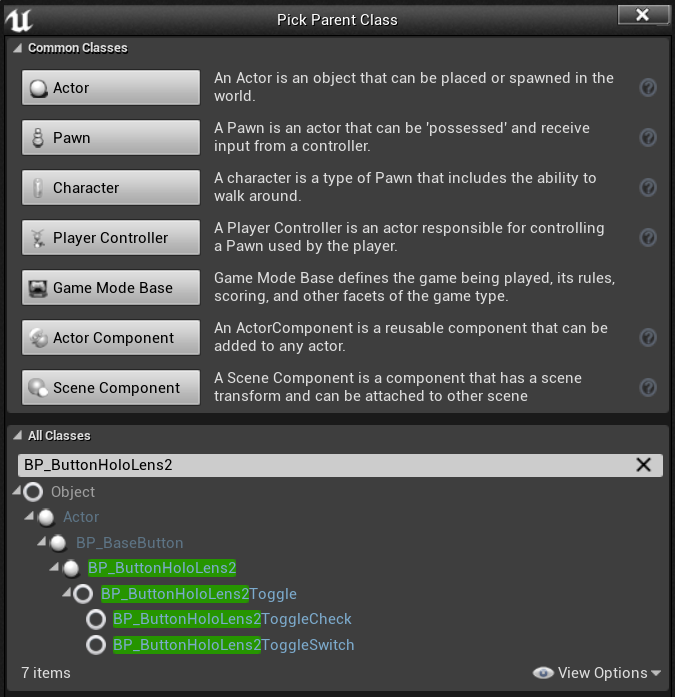
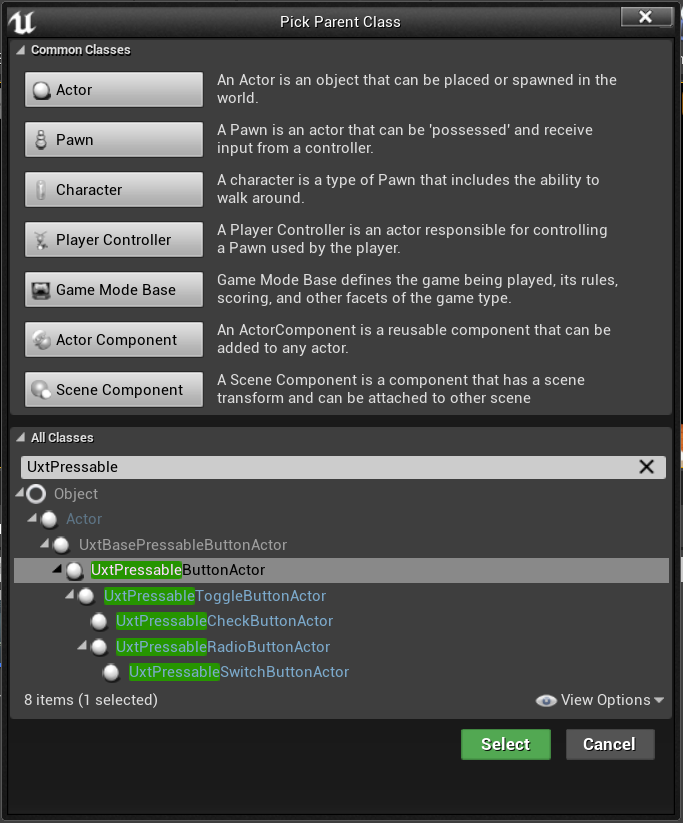
Update Unreal getting started tutorial for UXT 0.10

diff --git a/mixed-reality-docs/mr-dev-docs/develop/unreal/tutorials/unreal-uxt-ch4.md b/mixed-reality-docs/mr-dev-docs/develop/unreal/tutorials/unreal-uxt-ch4.md
@@ -1,9 +1,9 @@
 ---
 title: 4. Making your scene interactive
-description: Part 4 of 6 in a tutorial series to build a simple chess app using Unreal Engine 4 and the Mixed Reality Toolkit UX Tools plugin
+description: Part 4 of 6 in a tutorial series to build a simple chess app using Unreal Engine 4 and the Mixed Reality UX Tools plugin
 author: hferrone
 ms.author: v-hferrone
-ms.date: 08/18/2020
+ms.date: 11/18/2020
 ms.topic: article
 ms.localizationpriority: high
 keywords: Unreal, Unreal Engine 4, UE4, HoloLens, HoloLens 2, mixed reality, tutorial, getting started, mrtk, uxt, UX Tools, documentation, mixed reality headset, windows mixed reality headset, virtual reality headset
@@ -13,32 +13,33 @@ keywords: Unreal, Unreal Engine 4, UE4, HoloLens, HoloLens 2, mixed reality, tut
 
 ## Overview
 
-In the previous tutorial you added an ARSession, Pawn, and Game Mode to complete the mixed reality setup for the chess app. This section focuses on using the open source [Mixed Reality Toolkit UX Tools](https://github.com/microsoft/MixedReality-UXTools-Unreal) plugin, which provides tools to make the scene interactive. By the end of this section you'll be able to move the chess pieces with user input. 
+In the previous tutorial you added an ARSession, Pawn, and Game Mode to complete the mixed reality setup for the chess app. This section focuses on using the open source [Mixed Reality UX Tools](https://github.com/microsoft/MixedReality-UXTools-Unreal) plugin, which provides tools to make the scene interactive. By the end of this section you'll be able to move the chess pieces with user input. 
 
 ## Objectives
 
-* Downloading the Mixed Reality Toolkit UX Tools plugin 
+* Installing the Mixed Reality UX Tools plugin from the Unreal Engine Marketplace
 * Adding Hand Interaction Actors to your fingertips
 * Creating and adding Manipulators to objects in the scene
 * Using input simulation to validate the project
 
-## Downloading the MRTK UX Tools plugin
+## Downloading the Mixed Reality UX Tools plugin
 Before you start working with user input, you'll need to add the plugin to the project.
 
-1.	On the Mixed Reality UX Tools [releases page](https://github.com/microsoft/MixedReality-UXTools-Unreal/releases) on GitHub, navigate to the UX Tools for Unreal v0.9.0 release and download **UXTools.0.9.0.zip**. Unzip the file.
+1.	[Download](https://www.unrealengine.com/marketplace/en-US/product/mixed-reality-ux-tools) the Mixed Reality UX Tools plugin from the Unreal Engine Marketplace and install it to your engine via the Epic Launcher. Restart your editor.
 
-2.	Create a new folder called **Plugins** in the root folder of the project. Copy the unzipped UXTools plugin into this folder and restart the Unreal editor. 
+![Install to engine from the Unreal Engine Marketplace](images/unreal-uxt/4-marketplace.PNG)
 
-![Create a project plugins folder](images/unreal-uxt/4-plugins.PNG)
+2. Go to **Edit > Plugins** and ensure the Mixed Reality UX Tools plugin is enabled.
 
-3.	The UXTools plugin has a Content folder with subfolders for components including **Buttons**, **Input Simulation**, and **Pointers**, as well as a C++ Classes folder with additional code.  
+![Ensure Mixed Reality UX Tools is enabled](images/unreal-uxt/4-uxtenabled.PNG)
 
-> [!NOTE]
-> If you don’t see the **UXTools Content** section in the **Content Browser**, click **View Options > Show Plugin Content**. 
+3. To view the plugin's content, click on **View Options > Show Engine Content** in the bottom right corner of the **Content Browser**. Scroll down until you find **UXTools Content** and expand that directory. You'll see subfolders for components including Buttons, Input Simulation, and Pointers, as well as a **C++ Classes** folder with additional code.
 
-![Show plugin content](images/unreal-uxt/4-showplugincontent.PNG)
+![Ensure Mixed Reality UX Tools is enabled](images/unreal-uxt/4-showenginecontent.PNG)
+ 
+Additional plugin documentation can be found on the Mixed Reality UX Tools GitHub [repository](https://aka.ms/uxt-unreal). 
 
-With the plugin installed, you're ready to start using the tools it has to offer, starting with hand interaction actors.
+With the plugin installed, you're ready to start using the tools it has to offer, starting with hand interaction actors. 
 
 ## Spawning Hand Interaction Actors
 Hand interaction with UX elements is performed with Hand Interaction Actors, which create and drive the pointers and visuals for near and far interactions.
@@ -50,7 +51,7 @@ In our case, adding a Hand Interaction Actor to **MRPawn** will:
 - Provide articulated hand input events that can be manipulated through the Pawn.
 - Allow far interaction input events through hand rays extending from the palms of the virtual hands.
 
-In order to drive these concepts home, you're encouraged to read through the [documentation](https://github.com/microsoft/MixedReality-UXTools-Unreal/blob/public/0.9.x/Docs/HandInteraction.md) on hand interactions before continuing. 
+In order to drive these concepts home, you're encouraged to read through the [documentation](https://microsoft.github.io/MixedReality-UXTools-Unreal/Docs/HandInteraction.html) on hand interactions before continuing. 
 
 Once you're ready, open the **MRPawn** Blueprint and go to the **Event Graph**. 
 
@@ -74,11 +75,9 @@ Both Uxt Hand Interaction Actors need owners and initial transform locations. Th
 3. Last but not least, check the **Show Near Cursor on Grab Targets** box for both Hand Interaction Actors. This will cause a cursor to appear on the grab target as your index finger approaches it, which will make it easier to see where your finger is relative to the target.
     * **Compile**, **save**, and return to the Main window. 
 
-Make sure the connections match the following screenshot, but feel free to drag around nodes to make your Blueprint more readable
+Make sure the connections match the following screenshot, but feel free to drag around nodes to make your Blueprint more readable.
 
 ![Complete UXT Hand Interaction Actor setup](images/unreal-uxt/4-fingerptrs.PNG) 
-
-You can find more information about the Hand Interaction Actor provided in the MRTK UX Tools plugin in the [documentation](https://microsoft.github.io/MixedReality-UXTools-Unreal/version/public/0.9.x/Docs/HandInteraction.html).
 
 Now the virtual hands in the project have a way of selecting objects, but they still can't manipulate them. Your last task before testing the app is to add Manipulator components to the actors in the scene.
 
@@ -96,10 +95,10 @@ A Manipulator is a component that responds to articulated hand input and can be 
 
 3. Repeat the steps above for the **WhiteKing** Actor.
 
-You can find more information about the Manipulator Components provided in the MRTK UX Tools plugin in the [documentation](https://microsoft.github.io/MixedReality-UXTools-Unreal/version/public/0.9.x/Docs/Manipulator.html).
+You can find more information about the Manipulator Components provided in the Mixed Reality UX Tools plugin in the [documentation](https://microsoft.github.io/MixedReality-UXTools-Unreal/Docs/Manipulator.html).
 
 ## Testing the scene
-Good news everyone! You're ready to test out the app with its new virtual hands and user input. Press **Play** in the Main Window and you'll see two mesh hands provided by the MRTK UX Tools plugin with hand rays extending from each hand’s palm. You can control the hands and their interactions as follows:
+Good news everyone! You're ready to test out the app with its new virtual hand input. Press **Play** in the Main Window and you'll see two mesh hands provided by the Mixed Reality UX Tools plugin with hand rays extending from each hand’s palm. You can control the hands and their interactions as follows:
 - Hold down the **left Alt** key to control the **left hand** and the **left Shift** key to control the **right hand**. 
 - Move your mouse to move the hand and scroll with your **mouse wheel** to move the hand **forwards** or **backwards**. 
 - Click the left mouse button to **pinch**, click the middle mouse button to **poke**. 
@@ -111,7 +110,7 @@ Good news everyone! You're ready to test out the app with its new virtual hands 
 
 Try using the simulated hands to pick up, move, and set down the white chess king and manipulate the board! Experiment with both near and far interaction - notice that when your hands get close enough to grab the board and king directly, the hand ray disappears and is replaced with a finger cursor at the tip of the index finger. 
 
-You can find more information about the simulated hands feature provided by the MRTK UX Tools plugin in the [documentation](https://microsoft.github.io/MixedReality-UXTools-Unreal/version/public/0.9.x/Docs/InputSimulation.html).
+You can find more information about the simulated hands feature provided by the MRTK UX Tools plugin in the [documentation](https://microsoft.github.io/MixedReality-UXTools-Unreal/Docs/InputSimulation.html).
 
 Now that your virtual hands can interact with objects, you're ready to move on to the next tutorial and add user interfaces and events.
 

diff --git a/mixed-reality-docs/mr-dev-docs/develop/unreal/tutorials/unreal-uxt-ch5.md b/mixed-reality-docs/mr-dev-docs/develop/unreal/tutorials/unreal-uxt-ch5.md
@@ -1,9 +1,9 @@
 ---
 title: 5. Adding a button & resetting piece locations
-description: Part 5 of 6 in a tutorial series to build a simple chess app using Unreal Engine 4 and the Mixed Reality Toolkit UX Tools plugin
+description: Part 5 of 6 in a tutorial series to build a simple chess app using Unreal Engine 4 and the Mixed Reality UX Tools plugin
 author: hferrone
 ms.author: v-hferrone
-ms.date: 08/14/2020
+ms.date: 11/18/2020
 ms.topic: article
 ms.localizationpriority: high
 keywords: Unreal, Unreal Engine 4, UE4, HoloLens, HoloLens 2, mixed reality, tutorial, getting started, mrtk, uxt, UX Tools, documentation, mixed reality headset, windows mixed reality headset, virtual reality headset
@@ -14,7 +14,7 @@ keywords: Unreal, Unreal Engine 4, UE4, HoloLens, HoloLens 2, mixed reality, tut
 
 ## Overview
 
-In the previous tutorial, you added Hand Interaction Actors to the Pawn and Manipulator components to the chess board to make them both interactive. In this section, you'll continue working with the Mixed Reality Toolkit UX Tools plugin by building out the features of your chess app. This includes creating a new function and learning how to get references to Actors in a Blueprint. By the end of this section, you'll be ready to package and deploy the mixed reality app on a device or emulator.
+In the previous tutorial, you added Hand Interaction Actors to the Pawn and Manipulator components to the chess board to make them both interactive. In this section, you'll continue working with the Mixed Reality UX Tools plugin by building out the features of your chess app. This includes creating a new function and learning how to get references to Actors in a Blueprint. By the end of this section, you'll be ready to package and deploy the app to a HoloLens 2 device or emulator.
 
 ## Objectives
 
@@ -42,11 +42,8 @@ Your first task is to create a function blueprint that resets a chess piece to i
 Now that the function is setup correctly, your next task is to create a button that fires it off when touched. 
 
 
-1.	Click **Add New > Blueprint Class**, expand the **All Classes** section, and search for **BP_ButtonHoloLens2**. 
+1.	Click **Add New > Blueprint Class**, expand the **All Classes** section, and search for **UxtPressableButtonActor**. 
     * Name it **ResetButton** and double click to open the Blueprint
-
-> [!NOTE]
-> **BP_ButtonHoloLens2** is a 3D button Blueprint Actor that's part of the UX Tools plugin.
 
 ![Subclass the new Blueprint from the HoloLens 2 style button](images/unreal-uxt/5-subclass.PNG)
 
@@ -58,9 +55,9 @@ This will open up the Icon Brush Editor, which is a utility provided by the UX T
 
 ![Select an icon for the button](images/unreal-uxt/5-iconbrusheditor.PNG)
 
-There are plenty of other settings you can adjust to configure your button. To learn more about the UXT Pressable Button component, check out the [documentation](https://microsoft.github.io/MixedReality-UXTools-Unreal/version/public/0.9.x/Docs/PressableButton.html).
+There are plenty of other settings you can adjust to configure your button. To learn more about the UXT Pressable Button component, check out the [documentation](https://microsoft.github.io/MixedReality-UXTools-Unreal/Docs/PressableButton.html).
 
-3. Click **UxtPressableButton (Inherited)** in the **Components** panel and scroll down the **Details** panel to the **Events** section. 
+3. Click **ButtonComponent (Inherited)** in the **Components** panel and scroll down the **Details** panel to the **Events** section. 
     * Click the green **+** button next to **On Button Pressed** to add an event to the Event Graph, which will be called when the button is pressed. 
     
 From here, you’ll want to call **WhiteKing**’s **Reset Location** function, which needs a reference to the **WhiteKing** Actor in the Level. 

diff --git a/mixed-reality-docs/mr-dev-docs/develop/unreal/tutorials/unreal-uxt-ch3.md b/mixed-reality-docs/mr-dev-docs/develop/unreal/tutorials/unreal-uxt-ch3.md
@@ -1,9 +1,9 @@
 ---
 title: 3. Setting up your project for mixed reality
-description: Part 3 of 6 in a tutorial series to build a simple chess app using Unreal Engine 4 and the Mixed Reality Toolkit UX Tools plugin
+description: Part 3 of 6 in a tutorial series to build a simple chess app using Unreal Engine 4 and the Mixed Reality UX Tools plugin
 author: hferrone
 ms.author: v-hferrone
-ms.date: 06/10/2020
+ms.date: 11/18/2020
 ms.topic: article
 ms.localizationpriority: high
 keywords: Unreal, Unreal Engine 4, UE4, HoloLens, HoloLens 2, mixed reality, tutorial, getting started, mrtk, uxt, UX Tools, documentation, mixed reality headset, windows mixed reality headset, virtual reality headset
@@ -56,19 +56,16 @@ At this point, the project still needs a player object. In Unreal, a **Pawn** re
 
 ![Create a new Pawn inheriting from DefaultPawn](images/unreal-uxt/3-defaultpawn.PNG)
 
+2. Click **Add Component > Camera** from the **Components** panel and name it **Camera**. Make sure that the **Camera** component is a direct child of the root (**CollisionComponent**). This allows the player camera to move with the HoloLens 2 device.
+
 > [!NOTE]
 > By default, Pawns have mesh and collision components. In most Unreal projects, Pawns are solid objects that can collide with other components. Since the Pawn and user are the same in mixed reality, you want to be able to pass through holograms without any collisions. 
 
-2. Select **CollisionComponent** from the **Components** panel and scroll down to the **Collision** section of the **Details** panel. 
+3. Select **CollisionComponent** from the **Components** panel and scroll down to the **Collision** section of the **Details** panel. 
     * Click the **Collision Presets** dropdown and change the value to **NoCollision**. 
     * Do the same for the **MeshComponent**
 
 ![Adjust the Pawn's Collision Presets](images/unreal-uxt/3-nocollision.PNG)
-
-3. Click **Add Component > Camera** from the **Components** panel and name it **Camera**. This allows the player camera to move with the HoloLens 2 device.
-
-> [!NOTE]
-> Make sure that the **Camera** component is a direct child of the root (**CollisionComponent**).
 
 4. **Compile** and **Save** the Blueprint.
 
@@ -77,8 +74,7 @@ With your work here done, return to the Main Window.
 ## Create a Game Mode
 The last puzzle piece of the mixed reality setup is the Game Mode. The Game Mode determines a number of settings for the game or experience, including the default pawn to use.
 
-1.	Click **Add New > Blueprint Class** in the **Content** folder and expand the **All Classes** section at the bottom. 
-    * Search for **Game Mode Base**, name it **MRGameMode** and double-click to open. 
+1.	Click **Add New > Blueprint Class** in the **Content** folder and select **Game Mode Base** as the parent class. Name it **MRGameMode** and double-click to open. 
 
 ![MRGameMode in the Content Browser](images/unreal-uxt/3-gamemode.PNG)
 
